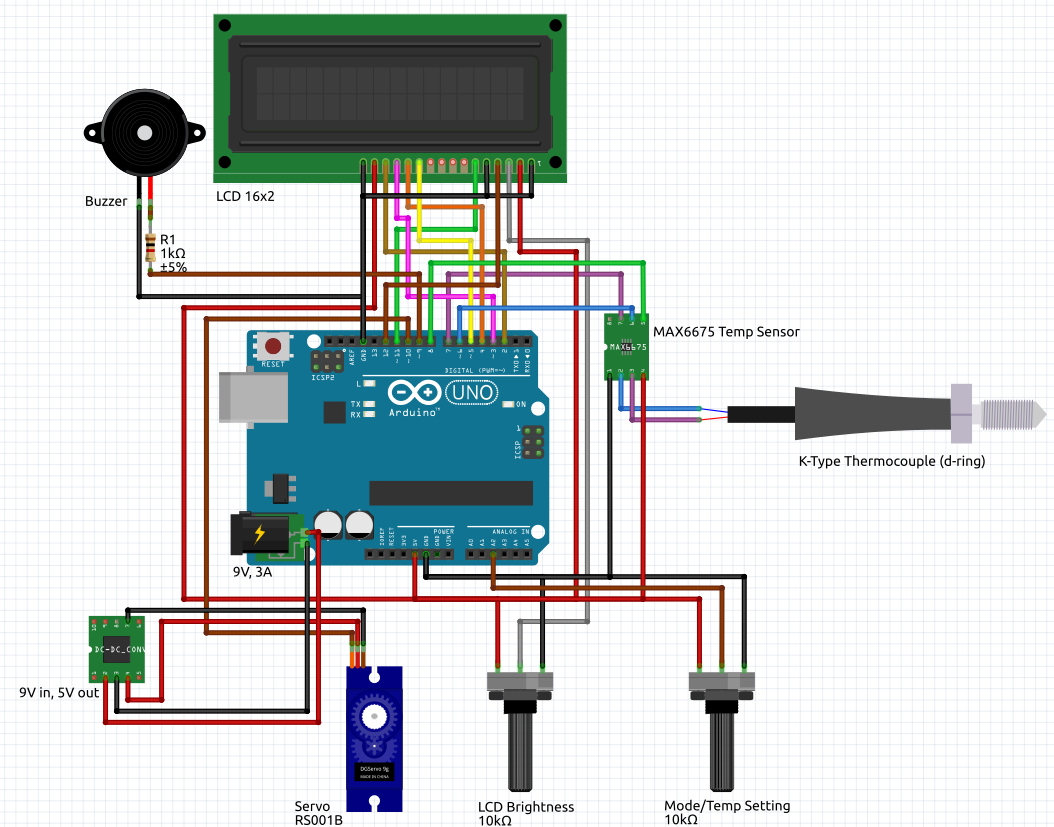
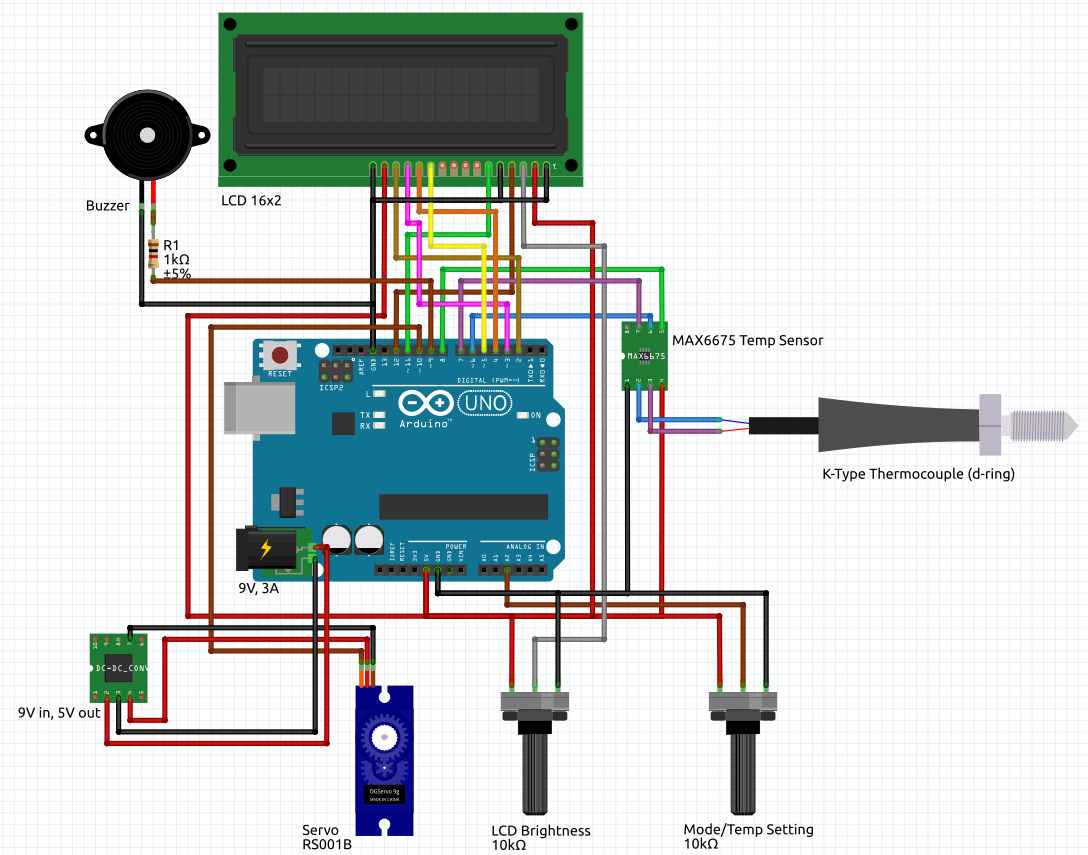
Update breadboard and schematic images; fix typo in cpp file.

Changed region(s): [[0.0, 0.0, 0.759, 1.0], [0.759, 0.4534, 1.0, 0.5744]]

diff --git a/src/StoveRegulator_v2.3.cpp b/src/StoveRegulator_v2.3.cpp
@@ -84,7 +84,7 @@ int lcdPort4 = 4;
 int lcdPort5 = 3;
 int lcdPort6 = 2;
 
-// Device objects - create servo, therocouple, and lcd objects 
+// Device objects - create servo, thermocouple, and lcd objects 
 Servo myservo;
 MAX6675 thermocouple(thermoSckkPort, thermoCsPort, thermoSoPort); 
 LiquidCrystal lcd(lcdPort1, lcdPort2, lcdPort3, lcdPort4, lcdPort5, lcdPort6); 
